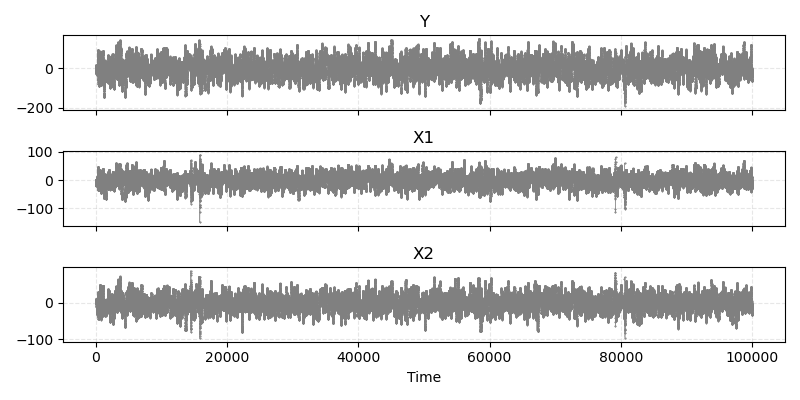
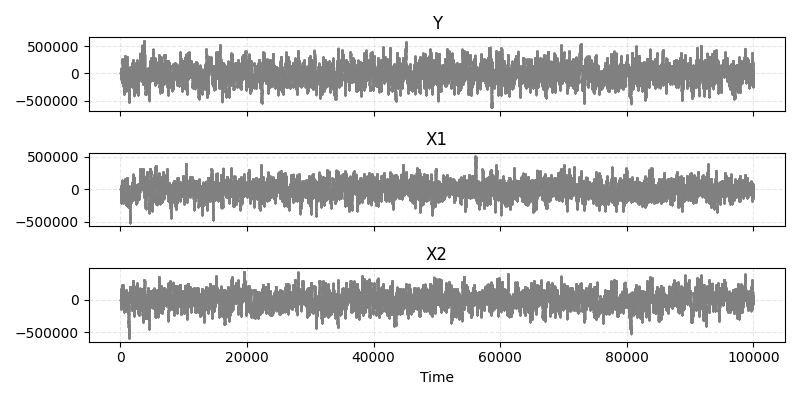
Modify the coefficients valu and generate new data based on new coefficients

diff --git a/scripts/simulate_ARIMAX.py b/scripts/simulate_ARIMAX.py
@@ -4,8 +4,10 @@ import pandas as pd
 import matplotlib.pyplot as plt
 import statsmodels.api as sm
 import pmdarima as pm
+import scipy.stats as stats
 
-path = r"C:\Users\Sina.Mokhtar.XLSCIENTIFIC\Documents\Problems\AD"
+path = r"C:\Users\sina.mokhtar\Documents\problems\Copula_AD"
+
 
 def read_time_series(file_name):
     eq_raw = pd.read_csv(
@@ -134,17 +136,28 @@ eq_raw_afi = read_time_series(file_name = r"data\fdsnws-dataselect_2024-10-22t00
 
 # Extract ARIMA coefficients
 coefficients = extract_arima_coefficients(eq_raw_afi["Sample"])
+# select all exept the last one
+
+coefficients[-1]
+# >>> coefficients
+# ar.L1     2.562053e+00
+# ar.L2    -2.405983e+00
+# ar.L3     1.064306e+00
+# ar.L4    -2.215547e-01
+# sigma2    1.979285e+06
+v = coefficients[-1]
 
 # simulate data
 simulated_data = simulate_arima_exog(
+    
     c=0, 
-    phi=np.array([1.282111, -0.526951, 0.870368, -0.488092, -0.143402]),  # AR coefficients
+    phi=np.array([2.562053, -2.405983, 1.064306, -.2215547]),  # AR coefficients
     theta=np.array([0]),  # MA coefficients
     beta=np.array([0.5, 0.8]),  # Exogenous variable coefficients
     omega_mean=np.array([0, 0, 0]),  # Mean of error terms
-    omega_Sigma=np.array([[1, 0.7, 0.7], 
-                           [0.7, 1, 0.7], 
-                           [0.7, 0.7, 1]]),  # Covariance of error terms
+    omega_Sigma=np.array([[v, 0.7, 0.7], 
+                          [0.7, v, 0.7], 
+                          [0.7, 0.7, v]]),  # Covariance of error terms
     initial_state=np.array([1, 1, 1, 1, 1]),  # Initial state
     n=100000,  # Number of time steps
     seed=534
@@ -152,23 +165,19 @@ simulated_data = simulate_arima_exog(
 
 plot_time_series(simulated_data, titles=["Y", "X1", "X2" ])
 
-earthquake_data = add_earthquakes(simulated_data, num_earthquakes=4, scale=40, duration=200)
+earthquake_data = add_earthquakes(simulated_data, num_earthquakes=3, scale=20000, duration=200)
 plot_time_series(earthquake_data, titles=["Y", "X1", "X2" ])
 
  
-sigma2_values = compute_sigma2_values(earthquake_data, window_size=200, overlap_size=20, order=(1,1,1))
+sigma2_values = compute_sigma2_values(earthquake_data, window_size=500, overlap_size=100, order=(1,1,1))
 plot_time_series(sigma2_values, titles=["Y", "X1", "X2"])
 
 
-import scipy.stats as stats
-import numpy as np
-import matplotlib.pyplot as plt
-import scipy.stats as stats
 
-def plot_anomalies_histogram_chi2(sigma2_values):
+def plot_anomalies_histogram_chi2(sigma2_values, dof):
     # Compute 95% confidence intervals using Chi-Square distribution
     confidence_intervals = []
-    dof = len(sigma2_values) - 1  # Degrees of freedom
+
 
     for i in range(sigma2_values.shape[1]):
         mean = np.mean(sigma2_values[:, i])
@@ -198,7 +207,7 @@ def plot_anomalies_histogram_chi2(sigma2_values):
     plt.show()
 
 # Example usage:
-plot_anomalies_histogram_chi2(sigma2_values)
+plot_anomalies_histogram_chi2(sigma2_values, dof=499)
 
 
 
